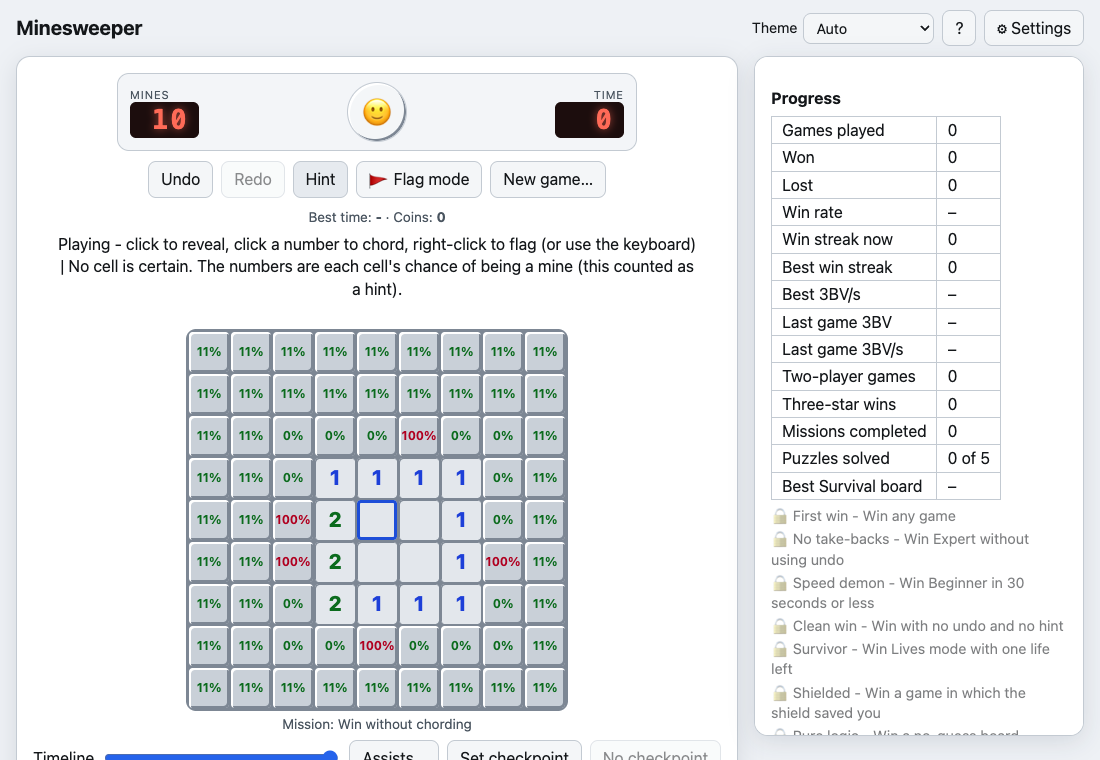
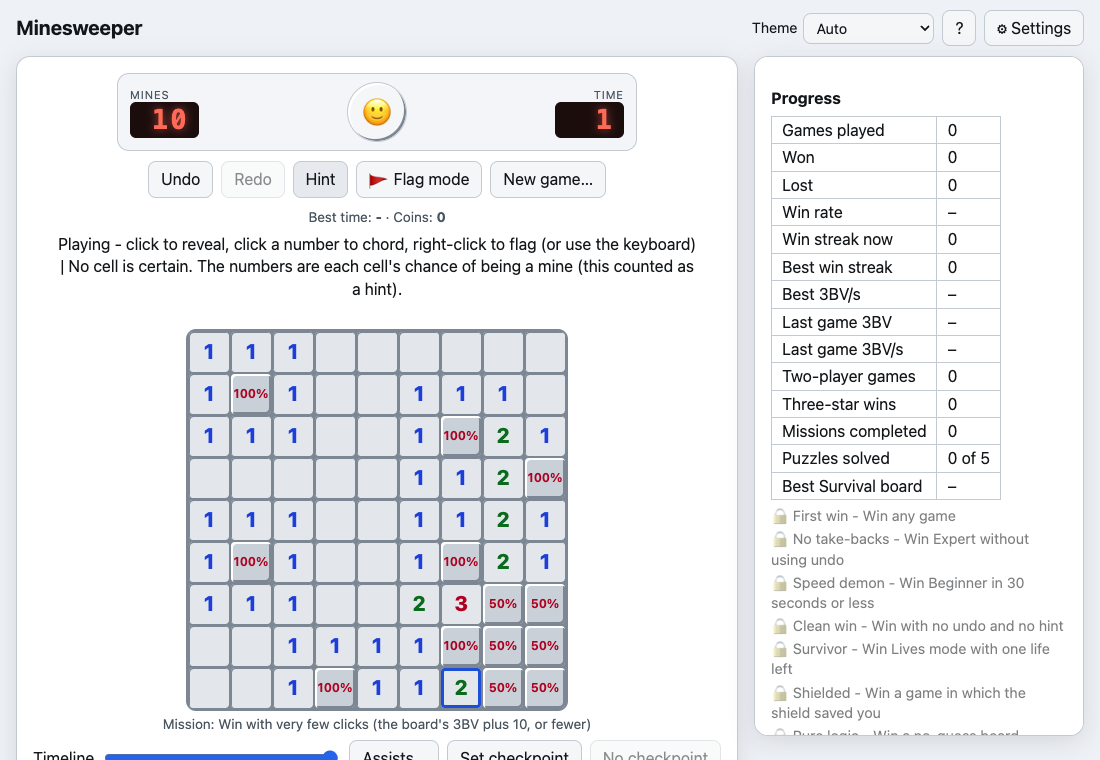
Make Hint and Auto-flag use the exact chances when the logic finds nothing
Cells the exact count proves safe (0%) or mine (100%) are now offered as certain; "No cell is certain" only appears when every cell really is a guess. Added a soundness test on seeded boards.

diff --git a/test/features.test.js b/test/features.test.js
@@ -314,11 +314,16 @@ test('shifting mines mode shows when the next shift is due', () => {
 // ---- assists in the ViewModel ----
 test('hint with nothing certain shows every cell\'s mine chance and counts as a hint', () => {
   let found = 0;
-  for (let seed = 1; seed <= 40 && !found; seed++) {
+  for (let seed = 1; seed <= 80 && !found; seed++) {
     const vm = make({}, seed); vm.click(4, 4);
+    const sure = () => { const v = vm.game._visible(), p = Solver.probabilities(vm.game.nb, v.revealed, v.num, v.known, 10);
+      return p.findIndex((x, k) => !v.revealed[k] && x >= 0 && x < 1e-9) >= 0 || Solver.hint(vm.game.nb, v.revealed, v.num, v.known, 10) >= 0; };
+    for (let k = 0; k < 60 && vm.game.status === 'playing' && sure(); k++) {          // play the certain cells until only guesses are left
+      const v = vm.game._visible(), p = Solver.probabilities(vm.game.nb, v.revealed, v.num, v.known, 10);
+      let i = Solver.hint(vm.game.nb, v.revealed, v.num, v.known, 10); if (i < 0) i = p.findIndex((x, q) => !v.revealed[q] && x >= 0 && x < 1e-9);
+      vm.game.reveal(Math.floor(i / 9), i % 9);
+    }
     if (vm.game.status !== 'playing') continue;
-    const v = vm.game._visible();
-    if (Solver.hint(vm.game.nb, v.revealed, v.num, v.known, 10) >= 0) continue;
     found = seed;
     vm.hint();
     assert.ok(vm.state().grid.flat().some(c => /^\d+%$/.test(c.text)));
@@ -615,4 +620,39 @@ test('all the new achievements exist and have rules', () => {
   assert.ok(t('puzzle-master')({ puzzlesSolved: 5 })); assert.ok(!t('puzzle-master')({ puzzlesSolved: 4 }));
   assert.ok(t('survivor-5')({ survivalStage: 5 })); assert.ok(!t('survivor-5')({ survivalStage: 4 }));
   assert.ok(t('beat-the-ai')({ vsAiWin: true })); assert.ok(!t('beat-the-ai')({ vsAiWin: false }));
+});
+
+test('exact chances: a 0% cell is never a mine and a 100% cell always is; Hint and Auto-flag use them when the logic finds nothing', () => {
+  let hintsFromChance = 0, flagsFromChance = 0;
+  for (const topology of ['square', 'hex', 'torus'])
+    for (let seed = 1; seed <= 60; seed++) {
+      const g = new Game(9, 9, 10, mulberry32(seed), { topology });
+      g.reveal(4, 4);
+      for (let step = 0; step < 40 && g.status === 'playing'; step++) {
+        const v = g._visible(), logic = Solver.hint(g.nb, v.revealed, v.num, v.known, 10);
+        const p = Solver.probabilities(g.nb, v.revealed, v.num, v.known, 10);
+        p.forEach((x, i) => { if (v.revealed[i] || x < 0) return; const m = g.cells[Math.floor(i / 9)][i % 9].mine;
+          if (x < 1e-9) assert.ok(!m, `${topology} seed ${seed}: a 0% cell is a mine`);
+          if (x > 1 - 1e-9) assert.ok(m, `${topology} seed ${seed}: a 100% cell is safe`); });
+        const proven = g.provenMines();
+        for (const { r, c } of proven) assert.ok(g.cells[r][c].mine);
+        const h = g.hint();
+        if (!h) break;
+        assert.ok(!g.cells[h.r][h.c].mine, `${topology} seed ${seed}: hint on a mine`);
+        if (logic < 0) hintsFromChance++;
+        g.reveal(h.r, h.c);
+      }
+    }
+  assert.ok(hintsFromChance > 0, 'the exact count never found a cell the logic missed');
+  for (let seed = 1; seed <= 80; seed++) {
+    const g = new Game(16, 16, 40, mulberry32(seed)); g.reveal(8, 8);
+    for (let step = 0; step < 60 && g.status === 'playing'; step++) {
+      const v = g._visible(), d = Solver.deduce(g.nb, v.revealed, v.num, v.known, 40).mine;
+      const extra = g.provenMines().filter(({ r, c }) => !d[r * 16 + c]);
+      flagsFromChance += extra.length;
+      for (const { r, c } of extra) assert.ok(g.cells[r][c].mine);
+      const h = g.hint(); if (!h) break; g.reveal(h.r, h.c);
+    }
+  }
+  assert.ok(flagsFromChance > 0, 'auto-flag never used a 100% cell');
 });

diff --git a/scripts/screenshots.js b/scripts/screenshots.js
@@ -5,7 +5,6 @@ const { spawn } = require('child_process');
 const path = require('path');
 const { Game } = require('../src/game.js');
 const { mulberry32 } = require('../src/rng.js');
-const Solver = require('../src/solver.js');
 
 const out = path.join(__dirname, '..', 'docs', 'screenshots');
 const PORT = 4174, base = `http://127.0.0.1:${PORT}/index.html?seed=11`;
@@ -19,17 +18,19 @@ function minesOf(opts = {}) {
   return { mines: cells.filter(m => m.x.mine && !m.x.revealed), safe: cells.filter(m => !m.x.mine && !m.x.revealed) };
 }
 
-// Cells to click (after the first click at 4,4) until logic alone cannot go further: there the hint shows mine chances.
+// Cells to click (after the first click at 4,4) until Hint finds nothing certain, not even by the exact count: there the hint shows chances.
 function stuckClicks(seed) {
   const g = new Game(9, 9, 10, mulberry32(seed)); g.reveal(4, 4);
   const clicks = [];
   for (;;) {
-    const v = g._visible(), { safe } = Solver.deduce(g.nb, v.revealed, v.num, v.known, 10);
-    const i = safe.findIndex((x, k) => x && !v.revealed[k]);
-    if (i < 0 || g.status !== 'playing') return clicks;
-    clicks.push([Math.floor(i / 9), i % 9]); g.reveal(Math.floor(i / 9), i % 9);
+    const h = g.status === 'playing' ? g.hint() : null;
+    if (!h) return { clicks, stuck: g.status === 'playing' };
+    clicks.push([h.r, h.c]); g.reveal(h.r, h.c);
   }
 }
+const stuckSeed = () => { for (let seed = 1; ; seed++) if (stuckClicks(seed).stuck) return seed; };
+
+const STUCK = stuckSeed();
 
 (async () => {
   const server = spawn('node', [path.join(__dirname, 'serve.js')], { env: { ...process.env, PORT: String(PORT) } });
@@ -90,9 +91,9 @@ function stuckClicks(seed) {
 
   await shot('09-probability-hint', desktop, null, async ({ page, cell, dismissTip }) => {
     await dismissTip(); await cell(4, 4).click(); await dismissTip();
-    for (const [r, c] of stuckClicks(36)) if (!(await cell(r, c).evaluate(el => el.classList.contains('open')))) await cell(r, c).click();
+    for (const [r, c] of stuckClicks(STUCK).clicks) if (!(await cell(r, c).evaluate(el => el.classList.contains('open')))) await cell(r, c).click();
     await page.click('#hint');
-  }, 36);
+  }, STUCK);
 
   await shot('10-undo-timeline', desktop, null, async ({ page, cell, dismissTip }) => {
     await dismissTip(); await cell(4, 4).click(); await dismissTip();

diff --git a/src/game.js b/src/game.js
@@ -6,6 +6,8 @@
   const Rng = dep('./rng.js', 'Rng'), Solver = dep('./solver.js', 'Solver'), Topology = dep('./topology.js', 'Topology');
   const Commands = dep('./commands.js', 'Commands');
 
+  const EPS = 1e-9;   // a chance this close to 0 or 1 is exact (floating point only)
+
   class Game {
     // opts (all optional):
     //  topology 'square' | 'hex' | 'torus'   board shape (how cells touch)
@@ -251,7 +253,9 @@
     // Returns {r, c} or null. Not a move: it does not change the board, only counts as a hint used.
     hint() {
       if (this.status !== 'playing' || !this.minesPlaced) return null;
-      const v = this._visible(), i = Solver.hint(this.nb, v.revealed, v.num, v.known, this.mineCount);
+      const v = this._visible();
+      let i = Solver.hint(this.nb, v.revealed, v.num, v.known, this.mineCount);
+      if (i < 0) i = this._byChance(v, x => x < EPS);      // the logic rules found nothing: the exact count may still prove a cell safe
       if (i < 0) return null;
       this.hintsUsed++;
       return this._coords(i);
@@ -260,11 +264,17 @@
     // Cells whose chance of being a mine is 1 according to the solver, not yet flagged: [{r, c}].
     provenMines() {
       const v = this._visible(), { mine } = Solver.deduce(this.nb, v.revealed, v.num, v.known, this.mineCount), out = [];
+      const p = Solver.probabilities(this.nb, v.revealed, v.num, v.known, this.mineCount);     // cells the exact count proves are mines (100%) too
       for (let i = 0; i < mine.length; i++) {
         const cell = this.cells[Math.floor(i / this.cols)][i % this.cols];
-        if (mine[i] && !cell.revealed && !cell.flagged) out.push(this._coords(i));
+        if ((mine[i] || (p[i] >= 0 && p[i] > 1 - EPS)) && !cell.revealed && !cell.flagged) out.push(this._coords(i));
       }
       return out;
+    }
+    // The first hidden cell whose exact mine chance passes test, or -1.
+    _byChance(v, test) {
+      const p = Solver.probabilities(this.nb, v.revealed, v.num, v.known, this.mineCount);
+      return p.findIndex((x, i) => x >= 0 && !v.revealed[i] && test(x));
     }
 
     // Mine chance for every hidden cell (see Solver.probabilities), as percentages 0-100 in a flat array (null = no

diff --git a/REPORT.md b/REPORT.md
@@ -30,7 +30,7 @@ Replay: the finished game is stepped through move by move (or played automatical
 
 ![Probability hint](docs/screenshots/09-probability-hint.png)
 
-Probability hint: when nothing is certain, Hint shows every hidden cell's chance of a mine (0 percent and 100 percent cells are certain).
+Probability hint: Hint first uses the logic rules, then any cell the exact count proves safe (0 percent). Only when every cell is really a guess does it show each hidden cell's chance of a mine, as here: the 100 percent cells are mines and the 50 percent cells are true coin flips.
 
 ![Undo timeline](docs/screenshots/10-undo-timeline.png)
 
@@ -72,7 +72,7 @@ Assumptions:
 Extra features, all built on the same model: power-ups (a scanner that counts mines in a 3x3 area and a shield that survives one mine), hints, hover help on numbers, dimmed finished numbers, Lives / Limited undo / Undo costs 10 s / Time attack / Zen / Two players modes, no-guess boards, a daily challenge and share links, statistics with 3BV and 3BV/s, 24 achievement badges, replay, five themes (two from the shop), keyboard play with rebindable keys, saved-game slots, and download and upload of settings and games.
 
 Smarter help, built on the solver (src/solver.js):
-- Probability hint: when no move is certain, Hint shows every hidden cell's mine chance in percent (exact, from the frontier and the total mine count). Best guess highlights the lowest-chance cell. Both count as hints.
+- Probability hint: Hint uses the logic rules and then the exact count (a 0 percent cell counts as certainly safe, and Auto-flag also flags 100 percent cells). When no move is certain, Hint shows every hidden cell's mine chance in percent (exact, from the frontier and the total mine count). Best guess highlights the lowest-chance cell. Both count as hints.
 - Auto-flag flags every mine the logic proves, as one undoable move. It counts as a hint. Wrong-flag check marks flags on safe cells with a cross; it works once per game and costs 15 seconds.
 - Hints, best guess and auto-flag are disabled in Puzzle and Hidden counter modes. A game that used any help is not a best-time record.
 
@@ -288,7 +288,7 @@ Logic tests (Node's built-in runner, no install):
 
     node --test
 
-There are 192 tests. They cover mine placement, numbers, flagging, flood-fill, win and loss, and undo of the first move, a large flood-fill, a flag, with an empty history, after a loss and after a win; redo; chording; all game modes; hex and wrap-around boards; seeds; hints (never on a mine over many random boards on every shape, with power-ups); no-guess boards finished by hints alone; the solver rules on small hand-made boards; 3BV; replay frames; saving, loading and many kinds of tampered data; the autosave cap; the pattern classes one by one (topology, commands, mementos, modes, options, key bindings, stats, save manager, the observer); the exact probabilities (checked against brute force), assists, power-up commands, earned undos, shifting mines with undo and replay, the computer opponent, survival, puzzles (each one is checked to be solvable by local logic inside its move limit), hidden counter, timeline and checkpoints, shop and coins, stars, missions, the weekly challenge, ghost races, and the colour contrast of every theme.
+There are 193 tests. They cover mine placement, numbers, flagging, flood-fill, win and loss, and undo of the first move, a large flood-fill, a flag, with an empty history, after a loss and after a win; redo; chording; all game modes; hex and wrap-around boards; seeds; hints (never on a mine over many random boards on every shape, with power-ups); no-guess boards finished by hints alone; the solver rules on small hand-made boards; 3BV; replay frames; saving, loading and many kinds of tampered data; the autosave cap; the pattern classes one by one (topology, commands, mementos, modes, options, key bindings, stats, save manager, the observer); the exact probabilities (checked against brute force), assists, power-up commands, earned undos, shifting mines with undo and replay, the computer opponent, survival, puzzles (each one is checked to be solvable by local logic inside its move limit), hidden counter, timeline and checkpoints, shop and coins, stars, missions, the weekly challenge, ghost races, and the colour contrast of every theme.
 
 Browser tests (optional, Playwright):
 
@@ -298,7 +298,7 @@ Browser tests (optional, Playwright):
 
 61 checks run in five projects: desktop Chrome, Firefox, Safari (WebKit), an Android phone and an iPhone. They drive the real page: safe first click and flood-fill, flags, undo and redo, loss and win, chording, keyboard play, key rebinding, saved settings, saved games and slots, the best-times table, hints, modes, hex and wrap-around boards, replay, the daily challenge, share links, themes, accessibility labels and focus, and the layout on a phone. Pages are opened with a seed so the test knows where the mines are. Deliberate bugs in the chord rule, the hex and wrap-around neighbour rules, number dimming, board rebuilding, reduced motion and arrow-key focus each made the matching test fail, then the code was restored.
 
-Results: 192 of 192 logic tests pass. The browser tests pass in Chrome, WebKit, the Android phone and the iPhone profiles. Firefox is configured but was not run: it would not start inside the development sandbox, so its results are unknown.
+Results: 193 of 193 logic tests pass. The browser tests pass in Chrome, WebKit, the Android phone and the iPhone profiles. Firefox is configured but was not run: it would not start inside the development sandbox, so its results are unknown.
 
 ## 7. Limitations
 
